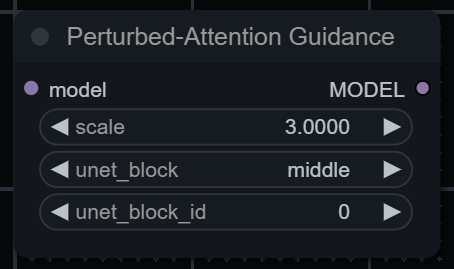
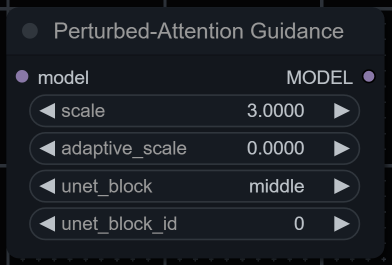
Adaptive scale optimization

diff --git a/scripts/pag_nodes.py b/scripts/pag_nodes.py
@@ -21,7 +21,7 @@ class PerturbedAttention:
             "required": {
                 "model": ("MODEL",),
                 "scale": ("FLOAT", {"default": 3.0, "min": 0.0, "max": 100.0, "step": 0.1, "round": 0.01}),
-                "adaptive_scale": ("FLOAT", {"default": 3.0, "min": 0.0, "max": 100.0, "step": 0.01, "round": 0.01}),
+                "adaptive_scale": ("FLOAT", {"default": 0.0, "min": 0.0, "max": 100.0, "step": 0.001, "round": 0.0001}),
                 "unet_block": (["input", "middle", "output"], {"default": "middle"}),
                 "unet_block_id": ("INT", {"default": 0}),
             }
@@ -32,7 +32,7 @@ class PerturbedAttention:
 
     CATEGORY = "advanced/model"
 
-    def patch(self, model: ModelPatcher, scale: float, adaptive_scale: float, unet_block: str, unet_block_id: int):
+    def patch(self, model: ModelPatcher, scale: float = 3.0, adaptive_scale: float = 0.0, unet_block: str = "middle", unet_block_id: int = 0):
         m = model.clone()
 
         def perturbed_attention(q: Tensor, k: Tensor, v: Tensor, extra_options, mask=None):
@@ -41,8 +41,6 @@ class PerturbedAttention:
 
         def post_cfg_function(args):
             """CFG+PAG"""
-            pag_scale = scale
-
             model = args["model"]
             cond_pred = args["cond_denoised"]
             cond = args["cond"]
@@ -51,7 +49,14 @@ class PerturbedAttention:
             model_options = args["model_options"]
             x = args["input"]
 
-            if pag_scale == 0:
+            signal_scale = scale
+            if adaptive_scale > 0:
+                t = model.model_sampling.timestep(sigma)
+                signal_scale -= adaptive_scale * (1000 - t)
+                if signal_scale < 0:
+                    signal_scale = 0
+
+            if signal_scale == 0:
                 return cfg_result
 
             try:
@@ -64,12 +69,6 @@ class PerturbedAttention:
             finally:
                 m.model_options["transformer_options"]["patches_replace"]["attn1"].pop((unet_block, unet_block_id))
 
-            signal_scale = pag_scale
-            if adaptive_scale > 0:
-                t = model.model_sampling.timestep(sigma)
-                signal_scale -= adaptive_scale * (1000-t)
-                if signal_scale < 0:
-                    signal_scale = 0
             return cfg_result + (cond_pred - pag) * signal_scale
 
         m.set_model_sampler_post_cfg_function(post_cfg_function, disable_cfg1_optimization=True)

diff --git a/scripts/pag.py b/scripts/pag.py
@@ -18,22 +18,24 @@ try:
             def ui(self, *args, **kwargs):
                 with gr.Accordion(open=False, label=self.title()):
                     enabled = gr.Checkbox(label="Enabled", value=False)
-                    scale = gr.Slider(label="Scale", minimum=0.0, maximum=30.0, step=0.01, value=3.0)
+                    with gr.Row():
+                        scale = gr.Slider(label="Scale", minimum=0.0, maximum=30.0, step=0.01, value=3.0)
+                        adaptive_scale = gr.Slider(label="Adaptive scale", minimum=0.0, maximum=30.0, step=0.001, value=0.0)
                     with gr.Row():
                         block = gr.Dropdown(choices=["input", "middle", "output"], value="middle", label="U-Net Block")
                         block_id = gr.Number(label="U-Net Block Id", value=0, precision=0, minimum=0)
 
-                return enabled, scale, block, block_id
+                return enabled, scale, adaptive_scale, block, block_id
 
             def process_before_every_sampling(self, p, *script_args, **kwargs):
-                enabled, scale, block, block_id = script_args
+                enabled, scale, adaptive_scale, block, block_id = script_args
 
                 if not enabled:
                     return
 
                 unet = p.sd_model.forge_objects.unet
 
-                unet = opPerturbedAttention.patch(unet, scale, block, block_id)[0]
+                unet = opPerturbedAttention.patch(unet, scale, adaptive_scale, block, block_id)[0]
 
                 p.sd_model.forge_objects.unet = unet
 
@@ -41,6 +43,7 @@ try:
                     dict(
                         pag_enabled=enabled,
                         pag_scale=scale,
+                        pag_adaptive_scale = adaptive_scale,
                         pag_block=block,
                         pag_block_id=block_id,
                     )

diff --git a/README.md b/README.md
@@ -8,9 +8,9 @@ Tested to work with SD1.5 and SDXL.
 > [!NOTE]
 > Paper and demo suggest using CFG scale 4.0 with PAG scale 3.0 applied to U-Net's middle layer 0, but feel free to experiment.
 >
-> Sampling speed is similar to Self-Attention Guidance (x0.6 of usual it/s).
+> Sampling speed without `adaptive_scale` is similar to Self-Attention Guidance (x0.6 of usual it/s).
 
-## Installation and Usage
+## Installation
 
 ### ComfyUI
 
@@ -26,3 +26,10 @@ Tested to work with SD1.5 and SDXL.
 
 ### SD WebUI (Auto1111)
 Currently not implemented. PRs are welcome!
+
+## Parameters
+
+- `scale`: PAG scale, has some resemblance to CFG scale - higher values can both increase structural coherence of the image and oversaturate/fry it entirely.
+- `adaptive_scale`: PAG dampening factor, it penalizes PAG during early denoising stages, resulting in overall speedup. Should be << than `scale`.
+- `unet_block`: Part of U-Net to which PAG is applied, original paper suggests to use `middle`.
+- `unet_block_id`: Id of U-Net layer in a selected block to which PAG is applied. PAG can be applied only to layers containing Self-attention blocks.
